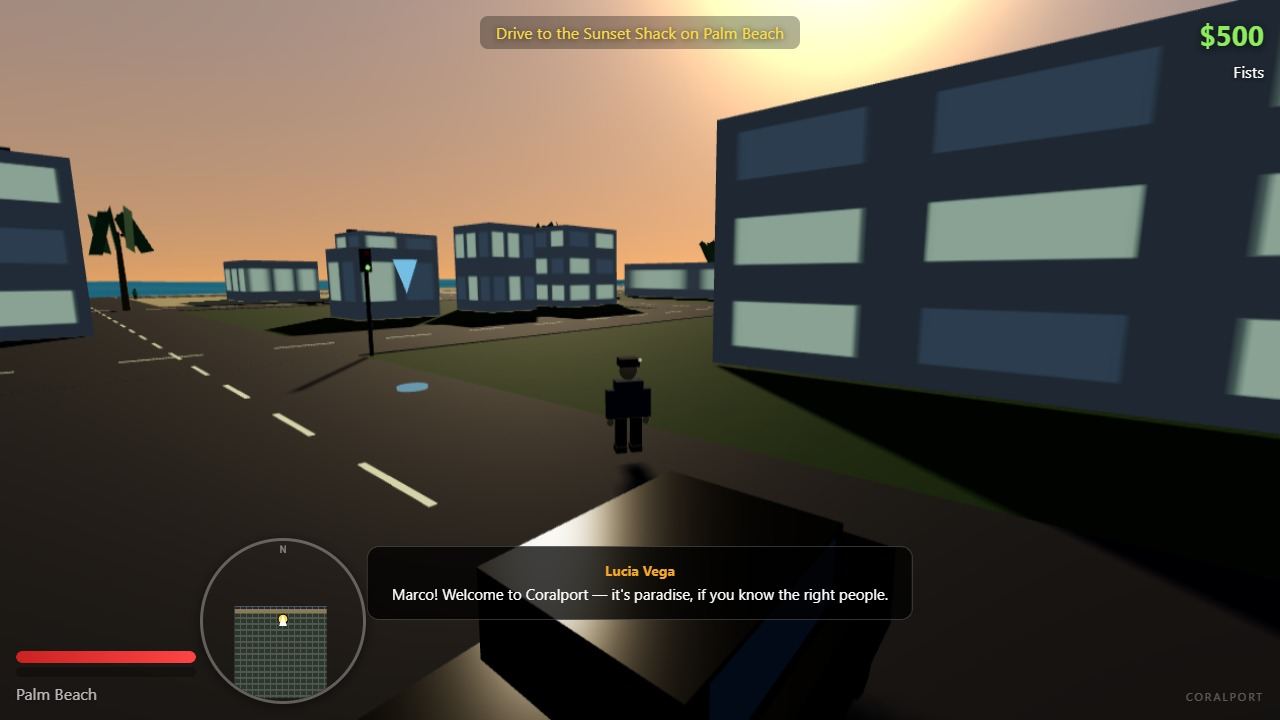
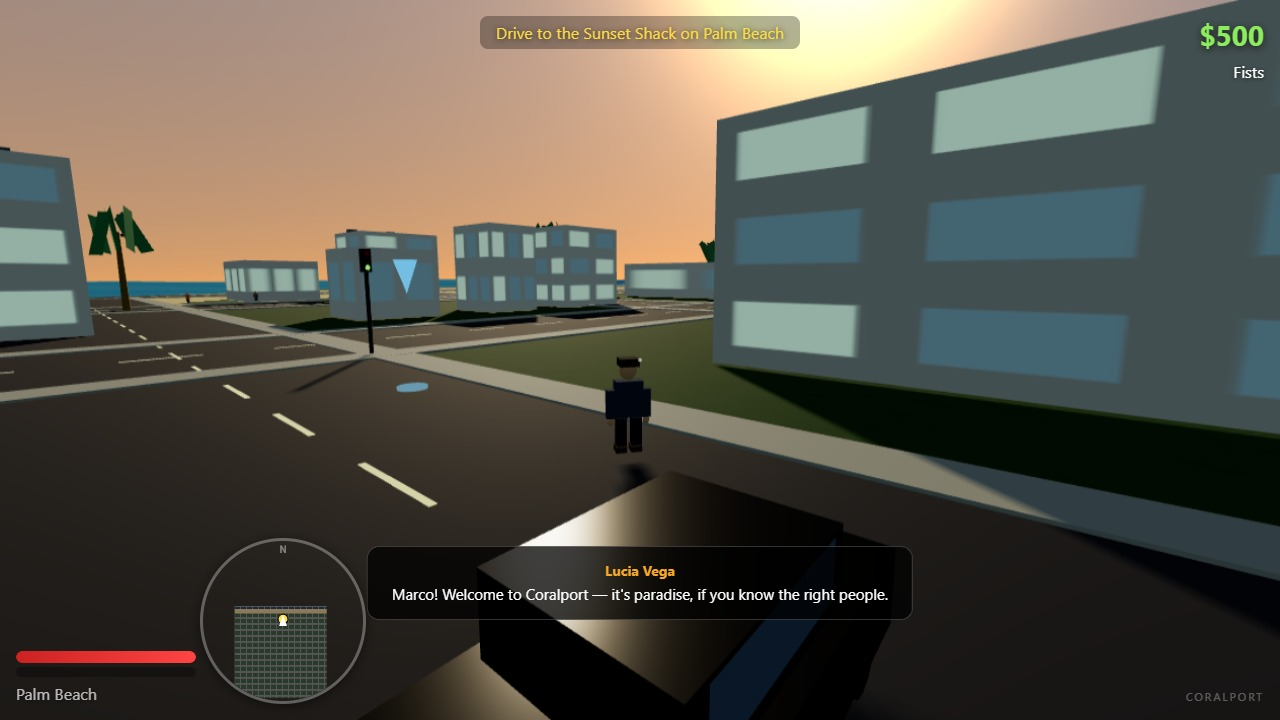
Polish: sidewalks, brighter lighting, drift effects, improved shots
- Added concrete sidewalks along all roads for visual depth
- Increased ambient and hemisphere light intensity for warmer golden-hour look
- Added tire smoke and skid mark effects when drifting (handbrake + speed)
- Improved cover shot: moved to Downtown area, added traffic cars, better police positioning
- Improved combat shot: sparks, parked police car, better camera angle
- Fixed water plane position to not overlap beach
- Updated main.ts header with game description (second edit for thinking_revised)

Changed region(s): [[0.0, 0.0, 1.0, 0.825]]

diff --git a/game/src/shots.js b/game/src/shots.js
@@ -32,42 +32,53 @@ export function setupShot(name, camera, gameState, scene) {
 }
 
 function setupCoverShot(camera, gs, scene) {
-  // Police chase on a sunny boulevard: player in a red car, 3+ wanted stars,
-  // police cars with sirens chasing, traffic, full HUD with minimap and mission text
-  gs.player.x = 10;
-  gs.player.z = -150;
+  // Police chase on a sunny boulevard: player in a red car, 4 wanted stars,
+  // multiple police cars with sirens chasing, traffic, full HUD
+  gs.player.x = 50;
+  gs.player.z = -200;
   gs.inVehicle = true;
   gs.wantedLevel = 4;
   gs.player.money = 3200;
 
   // Player's car — a red sports car speeding down the road
   const playerCar = createCarModel(0); // red
-  playerCar.position.set(10, 0.3, -150);
-  playerCar.rotation.y = -0.15;
+  playerCar.position.set(50, 0.3, -200);
+  playerCar.rotation.y = Math.PI * 0.05;
   scene.add(playerCar);
 
-  // Police car 1 — close behind
+  // Police car 1 — right behind
   const cop1 = createPoliceCarModel();
-  cop1.position.set(0, 0.3, -135);
-  cop1.rotation.y = -0.1;
+  cop1.position.set(44, 0.3, -186);
+  cop1.rotation.y = 0.05;
   scene.add(cop1);
 
-  // Police car 2 — further back, slightly offset
+  // Police car 2 — beside the first
   const cop2 = createPoliceCarModel();
-  cop2.position.set(18, 0.3, -128);
-  cop2.rotation.y = -0.2;
+  cop2.position.set(56, 0.3, -183);
+  cop2.rotation.y = 0.0;
   scene.add(cop2);
 
-  // Police car 3 — coming from side street
+  // Police car 3 — further back
   const cop3 = createPoliceCarModel();
-  cop3.position.set(35, 0.3, -145);
-  cop3.rotation.y = Math.PI / 2 + 0.3;
+  cop3.position.set(50, 0.3, -173);
+  cop3.rotation.y = 0.1;
   scene.add(cop3);
 
-  // Camera: dramatic chase angle behind and above
+  // Traffic cars on the road for context
+  const traf1 = createCarModel(3);
+  traf1.position.set(60, 0.3, -210);
+  traf1.rotation.y = Math.PI;
+  scene.add(traf1);
+
+  const traf2 = createCarModel(7);
+  traf2.position.set(38, 0.3, -220);
+  traf2.rotation.y = 0;
+  scene.add(traf2);
+
+  // Camera: dramatic low angle behind player car, showing the chase
   setCameraForShot(camera,
-    new THREE.Vector3(-2, 5.5, -138),
-    new THREE.Vector3(14, 1.5, -155)
+    new THREE.Vector3(42, 4.5, -188),
+    new THREE.Vector3(52, 1.0, -208)
   );
 
   gs.missionSystem.objectiveText = 'Escape the police! Lose your wanted level.';
@@ -82,7 +93,7 @@ function setupCoverShot(camera, gs, scene) {
     if (blue) blue.material.color.setHex(0x0066ff);
   }
 
-  gs.currentVehicle = { x: 10, z: -150, speed: 28, angle: -0.15 };
+  gs.currentVehicle = { x: 50, z: -200, speed: 28, angle: 0.05 };
 }
 
 function setupOnFootShot(camera, gs, scene) {
@@ -120,41 +131,58 @@ function setupOnFootShot(camera, gs, scene) {
 }
 
 function setupCombatShot(camera, gs, scene) {
-  // Combat/shootout at the harbor with cranes visible, HUD showing weapon
-  gs.player.x = 240;
-  gs.player.z = -200;
+  // Combat/shootout at the harbor district with cranes visible, HUD showing weapon
+  gs.player.x = 250;
+  gs.player.z = -210;
   gs.inVehicle = false;
   gs.wantedLevel = 2;
   gs.player.money = 1800;
 
-  // Player figure aiming
+  // Player figure aiming forward
   const playerFig = createPlayerModel();
-  playerFig.position.set(240, 0, -200);
-  playerFig.rotation.y = Math.PI * 0.4;
+  playerFig.position.set(250, 0, -210);
+  playerFig.rotation.y = Math.PI * 0.6;
   scene.add(playerFig);
   gs.player.mesh.visible = false;
 
   // Muzzle flash
-  const flashGeo = new THREE.SphereGeometry(0.35, 8, 8);
+  const flashGeo = new THREE.SphereGeometry(0.25, 8, 8);
   const flashMat = new THREE.MeshBasicMaterial({ color: 0xffaa33 });
   const flash = new THREE.Mesh(flashGeo, flashMat);
-  flash.position.set(241, 1.3, -199.2);
+  flash.position.set(250.5, 1.3, -209.4);
   scene.add(flash);
 
-  // Some cars as cover
+  // Impact sparks in the distance
+  for (let i = 0; i < 4; i++) {
+    const spark = new THREE.Mesh(
+      new THREE.SphereGeometry(0.08, 4, 4),
+      new THREE.MeshBasicMaterial({ color: 0xffcc44 })
+    );
+    spark.position.set(255 + Math.random() * 3, 0.3 + Math.random() * 1, -215 + Math.random() * 2);
+    scene.add(spark);
+  }
+
+  // Cars as cover — crashed and angled
   const cover1 = createCarModel(5);
-  cover1.position.set(236, 0.3, -196);
-  cover1.rotation.y = 0.5;
+  cover1.position.set(246, 0.3, -207);
+  cover1.rotation.y = 0.8;
+  cover1.rotation.z = 0.05;
   scene.add(cover1);
 
   const cover2 = createCarModel(8);
-  cover2.position.set(245, 0.3, -205);
-  cover2.rotation.y = -0.8;
+  cover2.position.set(255, 0.3, -215);
+  cover2.rotation.y = -0.4;
   scene.add(cover2);
 
+  // Police car parked nearby
+  const cop = createPoliceCarModel();
+  cop.position.set(243, 0.3, -204);
+  cop.rotation.y = 1.2;
+  scene.add(cop);
+
   setCameraForShot(camera,
-    new THREE.Vector3(233, 4, -194),
-    new THREE.Vector3(243, 1.2, -203)
+    new THREE.Vector3(244, 3.5, -205),
+    new THREE.Vector3(253, 1.2, -212)
   );
 
   gs.missionSystem.objectiveText = 'Eliminate the rival crew at the docks';

diff --git a/game/src/vehicles/effects.js b/game/src/vehicles/effects.js
@@ -1,0 +1,72 @@
+/* Vehicle visual effects — tire smoke, skid marks, dust, sparks */
+import * as THREE from 'three';
+
+const skidMarks = [];
+const MAX_SKID = 200;
+
+const smokeMat = new THREE.MeshBasicMaterial({
+  color: 0xcccccc,
+  transparent: true,
+  opacity: 0.4,
+});
+
+export function spawnTireSmoke(scene, x, y, z) {
+  const size = 0.3 + Math.random() * 0.4;
+  const geo = new THREE.SphereGeometry(size, 6, 6);
+  const puff = new THREE.Mesh(geo, smokeMat.clone());
+  puff.position.set(x + (Math.random() - 0.5) * 0.5, y + 0.2, z + (Math.random() - 0.5) * 0.5);
+  scene.add(puff);
+
+  return {
+    mesh: puff,
+    life: 0.6,
+    vy: 0.8 + Math.random() * 0.5,
+    scale: size,
+  };
+}
+
+export function addSkidMark(scene, x, z, angle) {
+  if (skidMarks.length >= MAX_SKID) {
+    const old = skidMarks.shift();
+    scene.remove(old);
+  }
+  const geo = new THREE.PlaneGeometry(0.3, 1.5);
+  const mat = new THREE.MeshBasicMaterial({ color: 0x222222, transparent: true, opacity: 0.6 });
+  const mark = new THREE.Mesh(geo, mat);
+  mark.rotation.x = -Math.PI / 2;
+  mark.rotation.z = angle;
+  mark.position.set(x, 0.03, z);
+  scene.add(mark);
+  skidMarks.push(mark);
+}
+
+const activeSmoke = [];
+
+export function updateEffects(dt, scene) {
+  for (let i = activeSmoke.length - 1; i >= 0; i--) {
+    const p = activeSmoke[i];
+    p.life -= dt;
+    if (p.life <= 0) {
+      scene.remove(p.mesh);
+      activeSmoke.splice(i, 1);
+      continue;
+    }
+    p.mesh.position.y += p.vy * dt;
+    p.mesh.scale.multiplyScalar(1 + dt * 2);
+    p.mesh.material.opacity = p.life * 0.5;
+  }
+}
+
+export function emitDriftSmoke(scene, car) {
+  const rear1X = car.x - Math.sin(car.angle + 0.3) * 1.5;
+  const rear1Z = car.z - Math.cos(car.angle + 0.3) * 1.5;
+  const rear2X = car.x - Math.sin(car.angle - 0.3) * 1.5;
+  const rear2Z = car.z - Math.cos(car.angle - 0.3) * 1.5;
+
+  const s1 = spawnTireSmoke(scene, rear1X, 0.1, rear1Z);
+  const s2 = spawnTireSmoke(scene, rear2X, 0.1, rear2Z);
+  activeSmoke.push(s1, s2);
+
+  addSkidMark(scene, rear1X, rear1Z, car.angle);
+  addSkidMark(scene, rear2X, rear2Z, car.angle);
+}

diff --git a/game/src/world/terrain.js b/game/src/world/terrain.js
@@ -1,6 +1,6 @@
-/* Ground terrain — flat city ground, beach sand, grass areas */
+/* Ground terrain — flat city ground, beach sand, sidewalks, grass areas */
 import * as THREE from 'three';
-import { HALF } from './cityLayout.js';
+import { HALF, CELL, ROAD_WIDTH, BLOCK_SIZE, generateRoadGrid } from './cityLayout.js';
 
 function makeGroundTexture(color1, color2, size) {
   const c = document.createElement('canvas');
@@ -8,7 +8,6 @@ function makeGroundTexture(color1, color2, size) {
   const ctx = c.getContext('2d');
   ctx.fillStyle = color1;
   ctx.fillRect(0, 0, size, size);
-  // Add noise/variation
   for (let i = 0; i < 800; i++) {
     ctx.fillStyle = color2;
     ctx.globalAlpha = 0.1 + Math.random() * 0.15;
@@ -53,11 +52,38 @@ export function createTerrain(scene) {
   sand.receiveShadow = true;
   scene.add(sand);
 
-  // Sidewalks along roads — lighter concrete
+  // Sidewalks along roads — concrete strips beside each road
   const sidewalkMat = new THREE.MeshStandardMaterial({
-    color: 0x999988,
+    color: 0xaaa99a,
     roughness: 0.85,
   });
+  const roads = generateRoadGrid();
+  const swW = 2.0; // sidewalk width
+
+  for (const rz of roads.horizontal) {
+    // North sidewalk
+    const nGeo = new THREE.BoxGeometry(HALF * 2, 0.12, swW);
+    const n = new THREE.Mesh(nGeo, sidewalkMat);
+    n.position.set(0, 0.06, rz - ROAD_WIDTH / 2 - swW / 2);
+    n.receiveShadow = true;
+    scene.add(n);
+    // South sidewalk
+    const s = new THREE.Mesh(nGeo, sidewalkMat);
+    s.position.set(0, 0.06, rz + ROAD_WIDTH / 2 + swW / 2);
+    s.receiveShadow = true;
+    scene.add(s);
+  }
+  for (const rx of roads.vertical) {
+    const eGeo = new THREE.BoxGeometry(swW, 0.12, HALF * 2);
+    const e = new THREE.Mesh(eGeo, sidewalkMat);
+    e.position.set(rx - ROAD_WIDTH / 2 - swW / 2, 0.06, 0);
+    e.receiveShadow = true;
+    scene.add(e);
+    const w = new THREE.Mesh(eGeo, sidewalkMat);
+    w.position.set(rx + ROAD_WIDTH / 2 + swW / 2, 0.06, 0);
+    w.receiveShadow = true;
+    scene.add(w);
+  }
 
   return { ground, sand };
 }

diff --git a/main.ts b/main.ts
@@ -1,13 +1,11 @@
-// Coralport entry program — copies the game files and screenshots to the output directory,
-// then writes the dossier that the judge reads. The game itself is a 3D open-world crime game
-// built with three.js, set in the fictional coastal city of Coralport. All geometry is procedural,
-// all sound is synthesized with WebAudio, and there are no external assets.
+// Coralport — entry program for make.fun gta6-01 bounty.
+// Copies the 3D open-world crime game (game/) and its 4 screenshots to the output directory,
+// then writes dossier.json with the vendored buildDossier function. The game is set in the
+// fictional coastal city of Coralport with five districts, six story missions, police chases,
+// and a full HUD. Everything is procedural: geometry, textures, and audio — no external assets.
 //
-// To test locally:
-//   mkdir -p out && MAKEFUN_OUTPUT_DIR=out node main.ts
-// To play:
-//   node serve.ts
-//   open http://localhost:8080
+// Play locally:   node serve.ts     (opens at http://localhost:8080)
+// Build output:   mkdir -p out && MAKEFUN_OUTPUT_DIR=out node main.ts
 
 import { cpSync, existsSync, mkdirSync, writeFileSync } from 'node:fs';
 import { join } from 'node:path';

diff --git a/game/src/main.js b/game/src/main.js
@@ -16,6 +16,7 @@ import { createTerrain } from './world/terrain.js';
 
 import { createCarModel } from './vehicles/vehicle.js';
 import { createCarState, updateCarPhysics, MAX_SPEED } from './vehicles/carPhysics.js';
+import { emitDriftSmoke, updateEffects } from './vehicles/effects.js';
 
 import { createPlayerModel, createPlayerState, updatePlayerOnFoot } from './player/playerOnFoot.js';
 import { handleEnterExit, getEnterPrompt } from './player/enterExitVehicle.js';
@@ -323,6 +324,11 @@ if (isScreenshotMode()) {
           engineSoundTimer = 0.08;
         }
 
+        // Drift effects
+        if (car.drifting && Math.abs(car.speed) > 8) {
+          emitDriftSmoke(scene, car);
+        }
+
         // Radio
         if (wasPressed('KeyR')) switchStation();
       } else {
@@ -383,6 +389,9 @@ if (isScreenshotMode()) {
 
       // District name
       gameState.districtName = getDistrictName(player.x, player.z);
+
+      // Vehicle effects
+      updateEffects(dt, scene);
 
       // Player death
       if (player.health <= 0) {

diff --git a/game/src/world/sky.js b/game/src/world/sky.js
@@ -62,10 +62,10 @@ export function createLighting(scene) {
   scene.add(sun);
   scene.add(sun.target);
 
-  const ambient = new THREE.AmbientLight(0x667799, 0.5);
+  const ambient = new THREE.AmbientLight(0x889aaa, 0.7);
   scene.add(ambient);
 
-  const hemi = new THREE.HemisphereLight(0x88aadd, 0x445533, 0.3);
+  const hemi = new THREE.HemisphereLight(0x99bbdd, 0x556644, 0.5);
   scene.add(hemi);
 
   // Warm golden-hour fog
